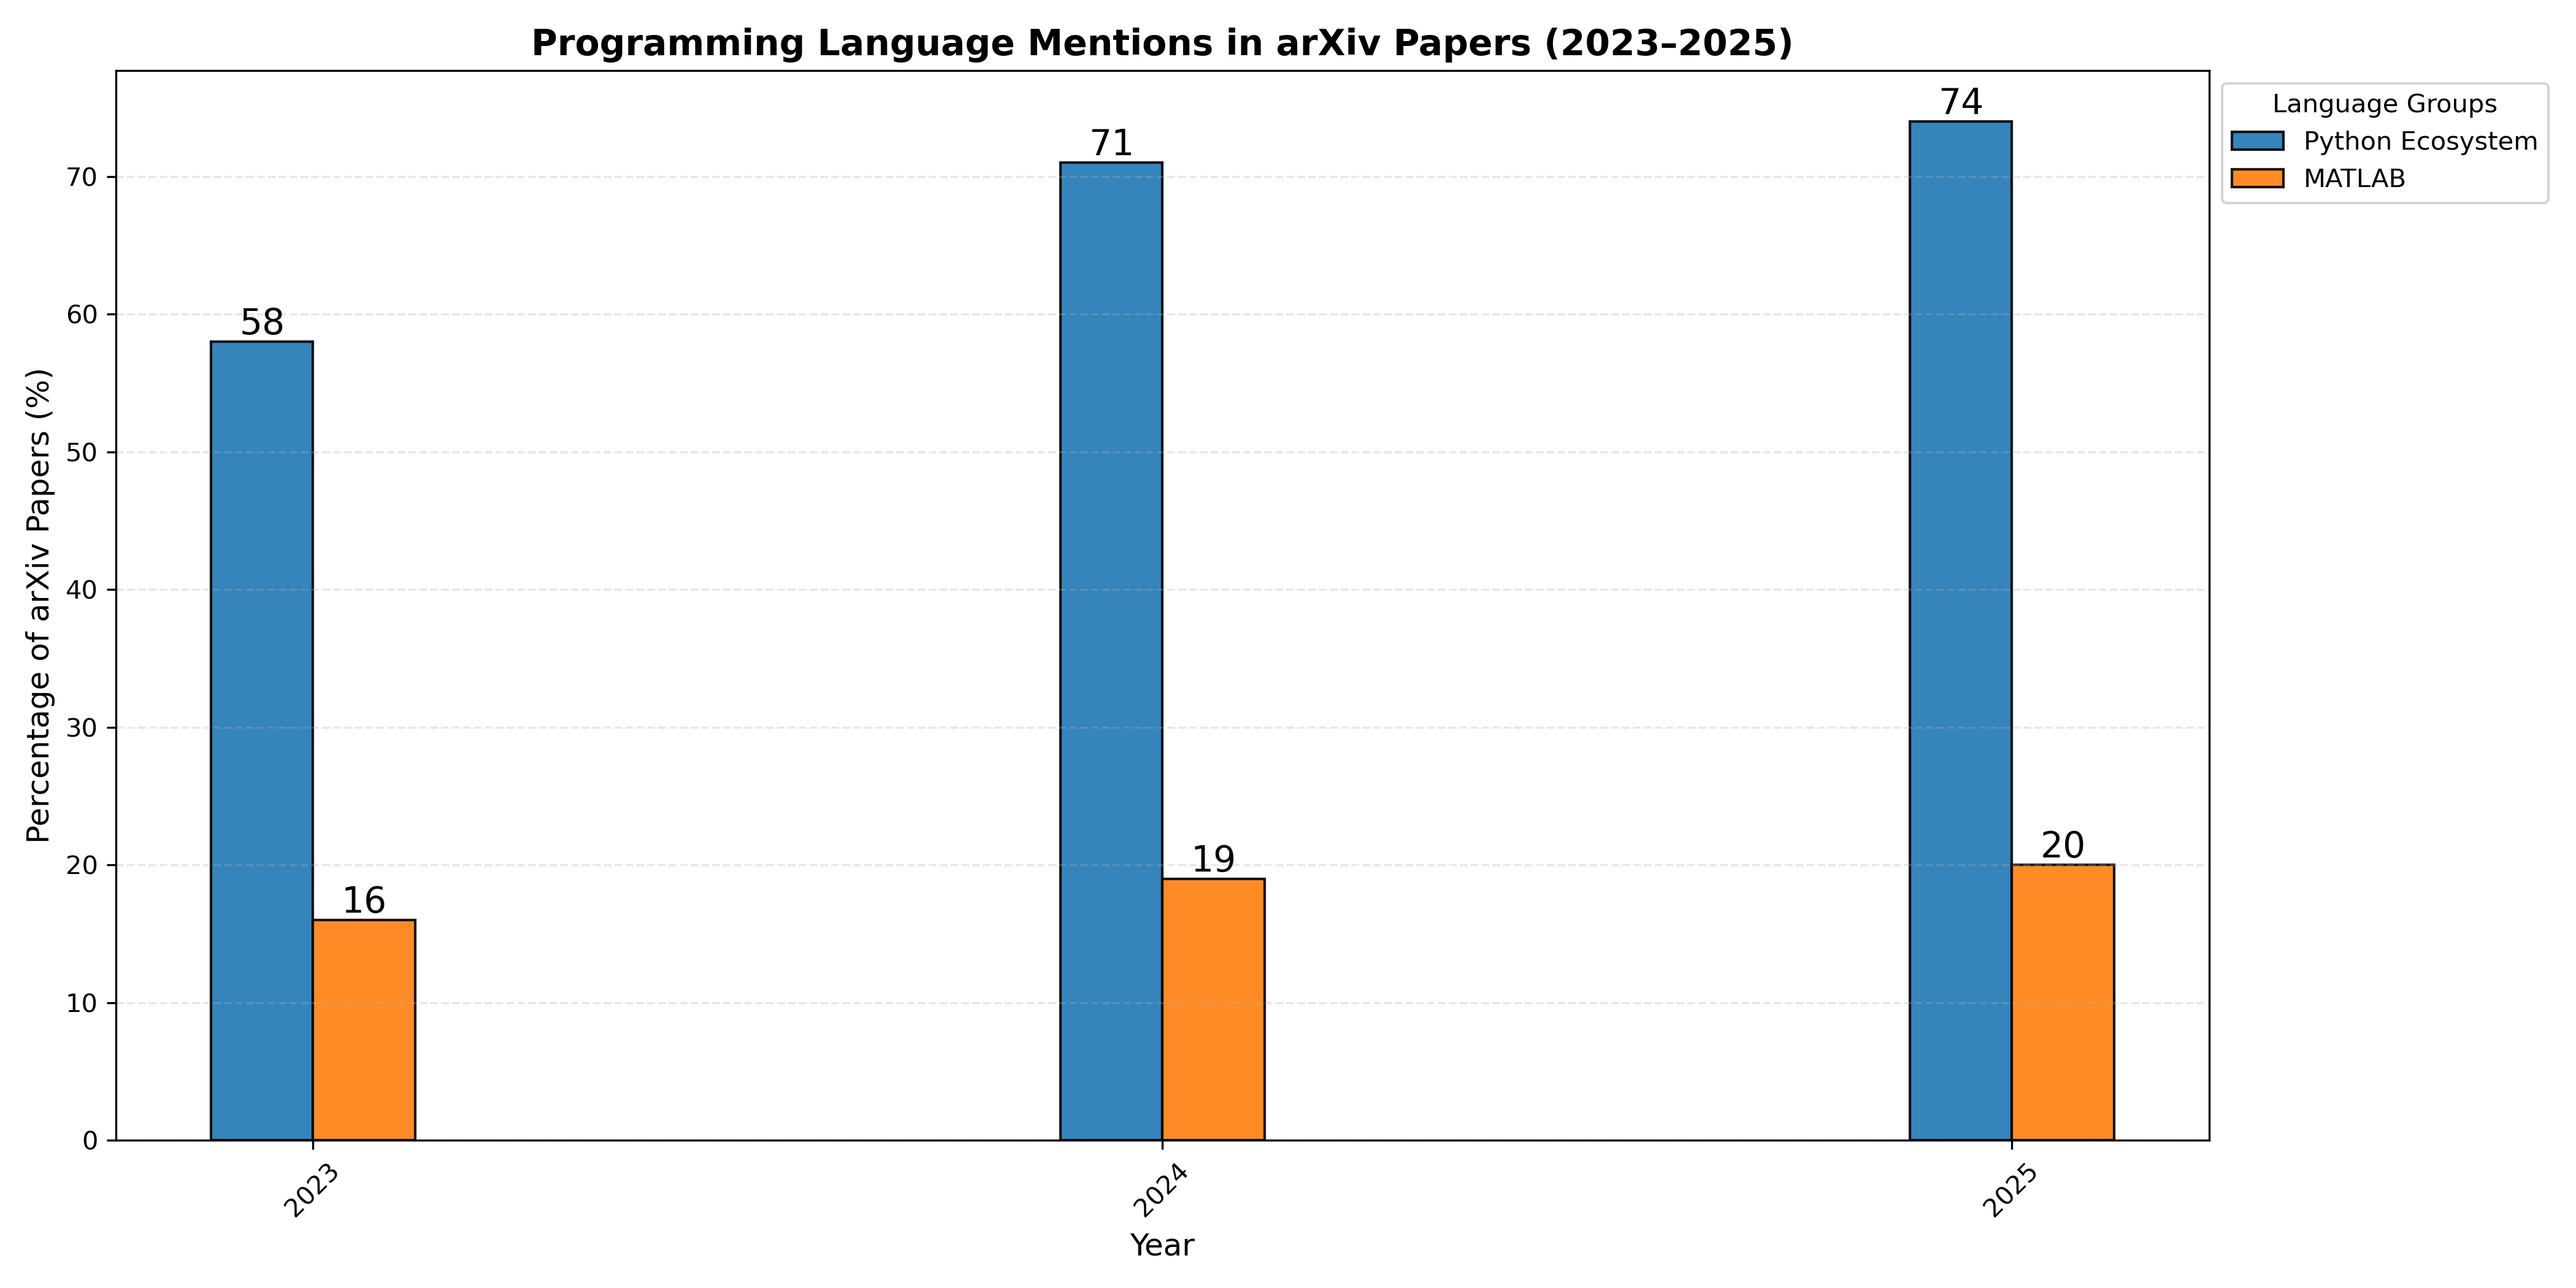
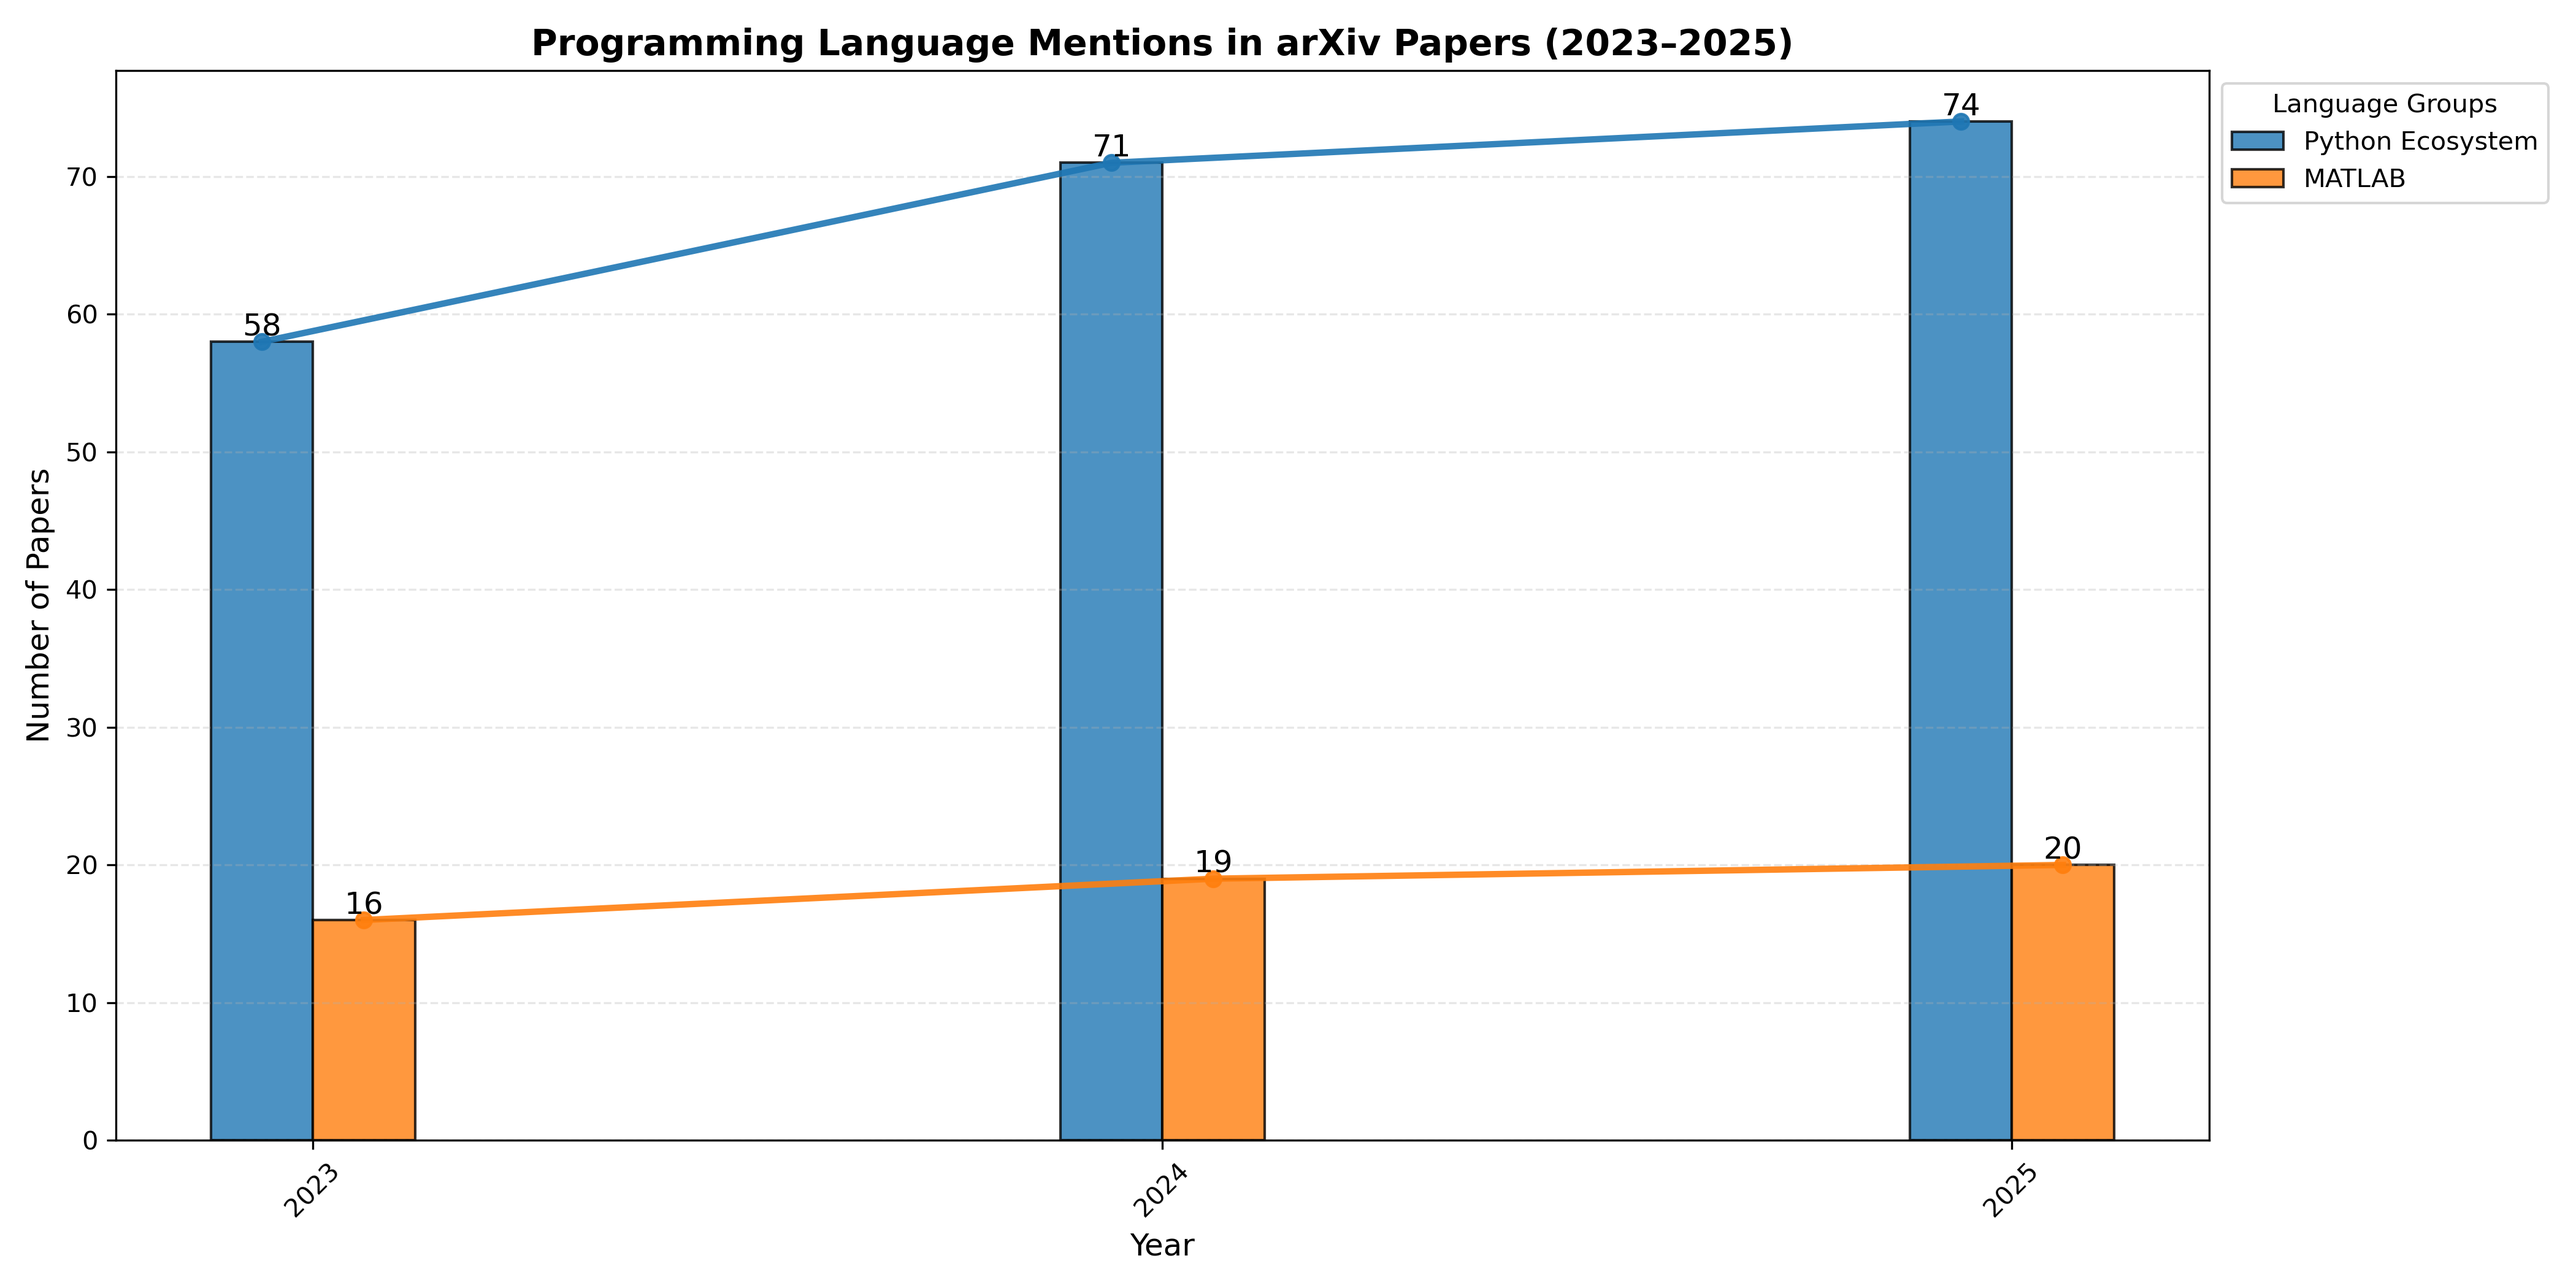
update arxive search

diff --git a/P5/08-Advanced_Traffic_TA_Class/serach_arxive.py b/P5/08-Advanced_Traffic_TA_Class/serach_arxive.py
@@ -118,53 +118,67 @@ class SearchArxivOAI:
         # Basic setup
         n_groups = len(self.group_names)
         years = np.arange(len(data.index))
-        bar_width = 0.12  # Adjust spacing between bars
-        colors = plt.get_cmap('tab10').colors  # Good color map for categorical data
-        
-        # Plot each group
+        bar_width = 0.12
+        colors = plt.get_cmap('tab10').colors  # Distinct colors per group
+
+        # Plot bars + lines
         for i, group in enumerate(self.group_names):
             positions = years + i * bar_width
+            values = data[group]
+
+            # --- Bar plot ---
             bars = plt.bar(
                 positions,
-                data[group],
+                values,
                 width=bar_width,
                 label=group,
                 color=colors[i % len(colors)],
                 edgecolor='black',
-                alpha=0.9
+                alpha=0.8
             )
 
-            # Add numbers on each bar
+            # --- Add text labels ---
             for bar in bars:
                 height = bar.get_height()
                 if height > 0:
-                    if name == "counts":
-                        plt.text(
-                            bar.get_x() + bar.get_width() / 2,
-                            height,
-                            f"{int(height)}",
-                            ha="center", va="bottom", fontsize=14, rotation=0
-                        )
-                    else:
-                        plt.text(
-                            bar.get_x() + bar.get_width() / 2,
-                            height,
-                            f"{height:.2f}",
-                            ha="center", va="bottom", fontsize=14, rotation=0
-                        )
+                    label = f"{int(height)}" if name == "counts" else f"{height:.2f}"
+                    plt.text(
+                        bar.get_x() + bar.get_width() / 2,
+                        height,
+                        label,
+                        ha="center", va="bottom",
+                        fontsize=12
+                    )
 
-        # Formatting
+            # --- Add line connecting yearly changes ---
+            x_positions = [bar.get_x() + bar.get_width() / 2 for bar in bars]
+            y_values = [bar.get_height() for bar in bars]
+
+            plt.plot(
+                x_positions,
+                y_values,
+                color=colors[i % len(colors)],
+                marker='o',
+                linewidth=2.5,
+                alpha=0.9
+            )
+
+        # --- Formatting ---
         plt.xlabel("Year", fontsize=12)
-        plt.ylabel("Percentage of arXiv Papers (%)", fontsize=12)
-        plt.title(f"Programming Language Mentions in arXiv Papers ({self.start_year}–{self.end_year})",
-                fontsize=14, weight='bold')
-        
-        # X-ticks centered on groups
+        plt.ylabel(
+            "Percentage of arXiv Papers (%)" if name != "counts" else "Number of Papers",
+            fontsize=12
+        )
+        plt.title(
+            f"Programming Language Mentions in arXiv Papers ({self.start_year}–{self.end_year})",
+            fontsize=14, weight='bold'
+        )
+
         plt.xticks(years + bar_width * (n_groups / 2 - 0.5), data.index, rotation=45)
         plt.legend(title="Language Groups", loc="upper left", bbox_to_anchor=(1, 1))
         plt.grid(True, axis='y', linestyle='--', alpha=0.3)
         plt.tight_layout()
 
-        # Save and show
+        # --- Save and show ---
         plt.savefig(SearchArxivOAI._result_path / f"arxiv_language_{name}.png", dpi=300)
         plt.show()
